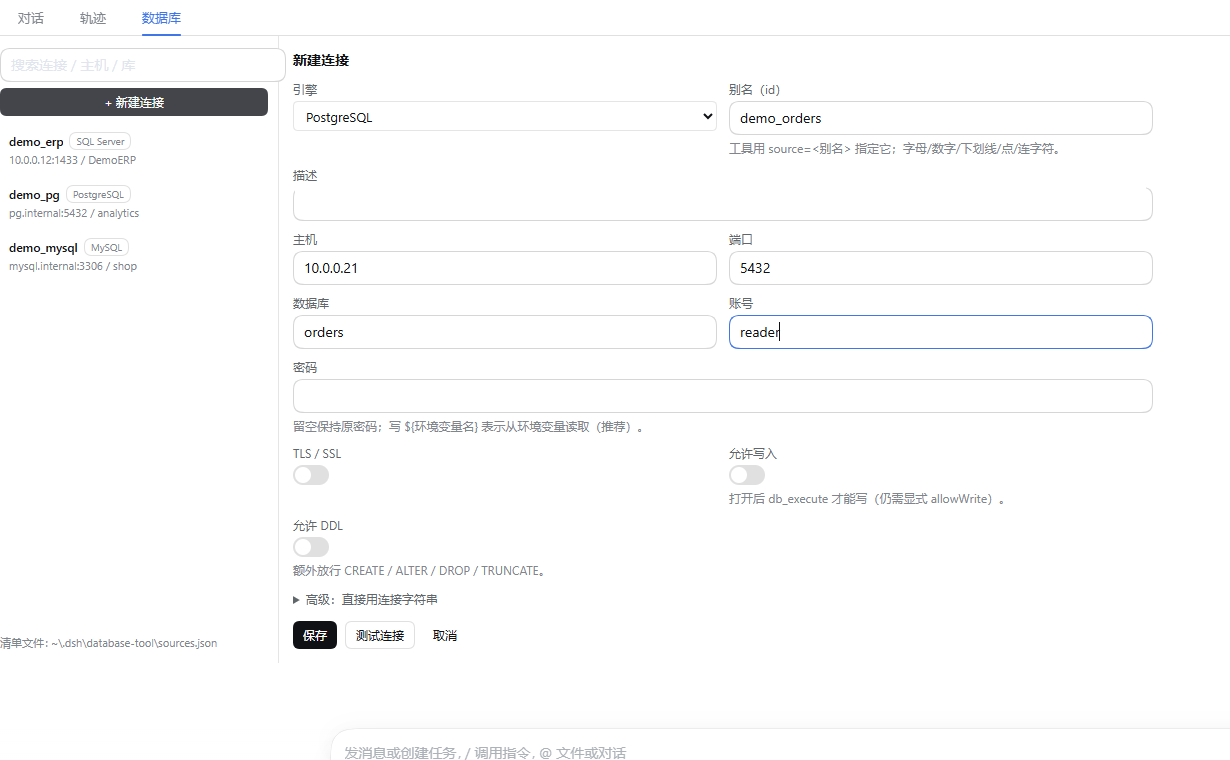
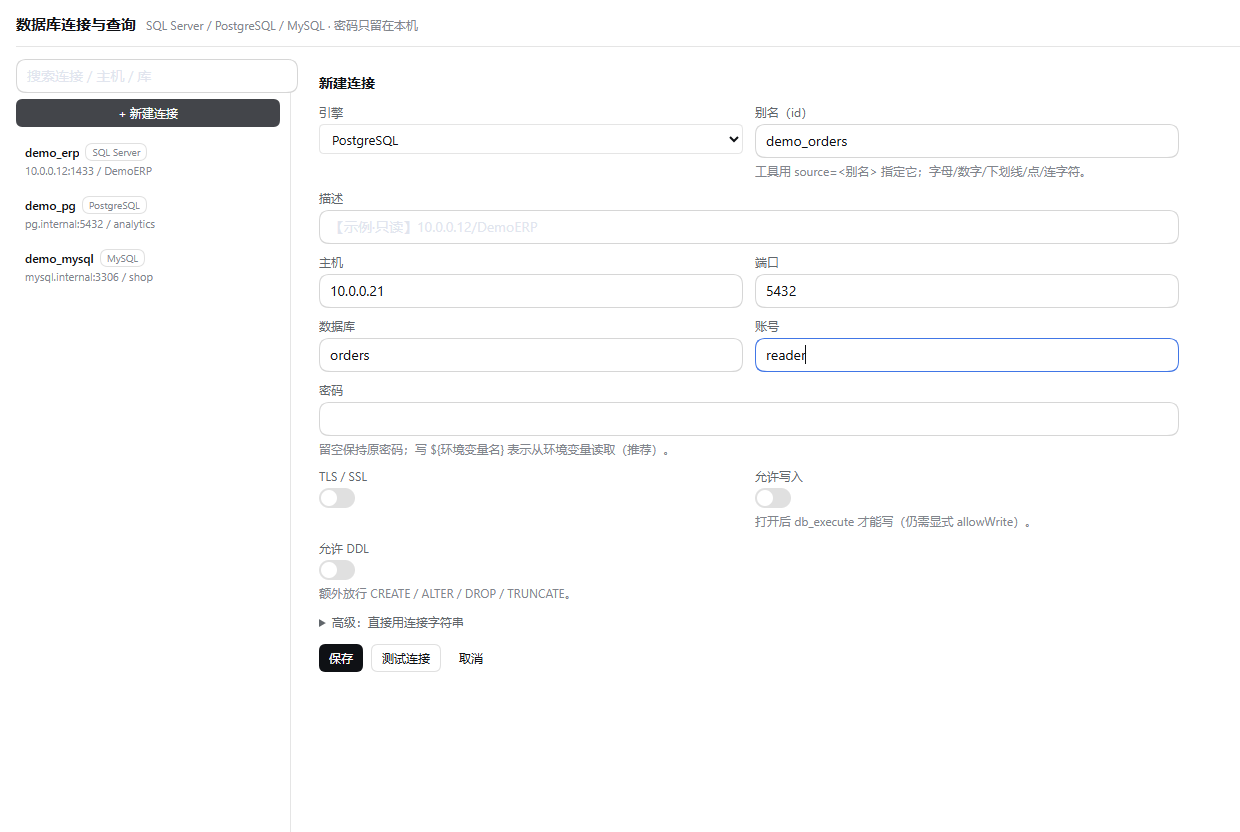
feat: 「数据库」从会话标签页改到左侧栏全局面板（0.2.1）
- 注册 main + sidebar.panellist（id 一致），删掉 conversation.view 注册
- 面板加页面标题行，去掉为会话输入框预留的底部留白；表单/控制台/列表布局沿用
- 设置页文案与 README / USAGE 截图同步改成侧栏入口

diff --git a/client/client.js b/client/client.js
@@ -2,7 +2,7 @@
  * dsh-tool-database 浏览器半区。
  *
  * 两个落点：
- *   1. 会话顶部标签页「数据库」（conversation.view）：左连接列表 + 右查询控制台 / 连接表单；
+ *   1. 左侧栏「数据库」面板（main + sidebar.panellist）：左连接列表 + 右查询控制台 / 连接表单；
  *   2. 设置页「数据库」节（settings.section）：控制台默认行数与写策略。
  *
  * 形态说明：DSH 客户端插件必须是单文件、且以 window.__ModuleLoader__.load({ id, factory })
@@ -32,7 +32,7 @@ window.__ModuleLoader__.load({
     const NS = 'dsh-tool-database'
     /** 设置页标签页 id。 */
     const SECTION_ID = 'database-sources'
-    /** 会话标签页 id。 */
+    /** 侧栏面板 id（main key + sidebar.panellist id 必须一致）。 */
     const VIEW_ID = 'database'
 
     const zh = {
@@ -46,6 +46,7 @@ window.__ModuleLoader__.load({
       empty: '还没有连接，点「新建连接」开始。',
       pick: '从左侧选一个连接，或新建一个。',
       engineHint: '支持 SQL Server / PostgreSQL / MySQL。连接与密码只留在本机宿主进程里，模型看到的是源句柄与查询结果，永远拿不到密码。',
+      engineHintShort: 'SQL Server / PostgreSQL / MySQL · 密码只留在本机',
       configDriven: '当前连接来自插件 config.sources，本页改动不生效；先清空 config.sources。',
       engine: '引擎',
       idLabel: '别名（id）',
@@ -94,7 +95,7 @@ window.__ModuleLoader__.load({
       consoleSaved: '已保存。',
       consoleTitle: '控制台设置',
       file: '清单文件',
-      settingsIntro: '连接管理在会话顶部的「数据库」标签页里；这里只放控制台的全局参数。',
+      settingsIntro: '连接管理在左侧栏的「数据库」面板里；这里只放控制台的全局参数。',
       wrote: '已执行',
       affected: '影响行数',
       result: '结果',
@@ -111,6 +112,7 @@ window.__ModuleLoader__.load({
       empty: 'No connection yet — start with “New connection”.',
       pick: 'Pick a connection on the left, or create one.',
       engineHint: 'Supports SQL Server / PostgreSQL / MySQL. Connections and passwords stay in the local host process; the model only sees source handles and query results.',
+      engineHintShort: 'SQL Server / PostgreSQL / MySQL · passwords stay local',
       configDriven: 'Connections come from the plugin config.sources; edits here have no effect until that is emptied.',
       engine: 'Engine',
       idLabel: 'Alias (id)',
@@ -159,7 +161,7 @@ window.__ModuleLoader__.load({
       consoleSaved: 'Saved.',
       consoleTitle: 'Console settings',
       file: 'List file',
-      settingsIntro: 'Connections live in the “Database” tab at the top of a session; this page only holds console-wide defaults.',
+      settingsIntro: 'Connections live in the “Database” panel in the left sidebar; this page only holds console-wide defaults.',
       wrote: 'Executed',
       affected: 'Rows affected',
       result: 'Result',
@@ -187,8 +189,12 @@ window.__ModuleLoader__.load({
       styled = true
       const style = document.createElement('style')
       style.textContent = [
-        '.dbx-root{display:flex;height:100%;min-height:0;box-sizing:border-box;padding-bottom:128px;font-size:13px;color:var(--dsw-alias-label-primary,inherit)}',
-        '.dbx-side{width:268px;min-width:220px;display:flex;flex-direction:column;gap:8px;padding:12px 10px;border-right:1px solid var(--dsw-alias-border-l2,color-mix(in srgb,currentColor 14%,transparent));min-height:0}',
+        '.dbx-root{display:flex;height:100%;min-height:0;box-sizing:border-box;padding:14px 16px;gap:14px;font-size:13px;color:var(--dsw-alias-label-primary,inherit)}',
+        '.dbx-page{display:flex;flex-direction:column;height:100%;min-height:0;box-sizing:border-box;padding:14px 16px;gap:12px;font-size:13px;color:var(--dsw-alias-label-primary,inherit)}',
+        '.dbx-page-head{display:flex;align-items:baseline;gap:10px;flex:none}',
+        '.dbx-page-title{font-size:15px;font-weight:600;margin:0}',
+        '.dbx-cols{display:flex;flex:1;min-height:0;gap:14px;border-top:1px solid var(--dsw-alias-border-l2,color-mix(in srgb,currentColor 14%,transparent));padding-top:12px}',
+        '.dbx-side{width:264px;min-width:220px;display:flex;flex-direction:column;gap:8px;padding:0 10px 0 0;border-right:1px solid var(--dsw-alias-border-l2,color-mix(in srgb,currentColor 14%,transparent));min-height:0}',
         '.dbx-main{flex:1;min-width:0;display:flex;flex-direction:column;min-height:0}',
         '.dbx-side-head{display:flex;flex-direction:column;gap:6px}',
         '.dbx-search{width:100%}',
@@ -813,7 +819,16 @@ window.__ModuleLoader__.load({
 
       return h(
         'div',
-        { className: 'dbx-root' },
+        { className: 'dbx-page' },
+        h(
+          'div',
+          { className: 'dbx-page-head' },
+          h('h2', { className: 'dbx-page-title' }, t('title')),
+          h('span', { className: 'dbx-muted' }, t('engineHintShort')),
+        ),
+        h(
+          'div',
+          { className: 'dbx-cols' },
         h(
           'aside',
           { className: 'dbx-side' },
@@ -900,12 +915,25 @@ window.__ModuleLoader__.load({
                   ),
                 ),
         ),
+        ),
       )
     }
 
     function View(props) {
       const t = props.t
       return h('div', { style: { height: '100%', minHeight: 0 } }, h(Panel, { t: t }))
+    }
+
+    /** 侧边栏「数据库」入口图标（侧边栏负责按钮、文字与选中态）。 */
+    function PanelIcon(props) {
+      const size = Number(props && props.size) || 16
+      return h(
+        'svg',
+        { width: size, height: size, viewBox: '0 0 16 16', fill: 'none', 'aria-hidden': 'true' },
+        h('ellipse', { cx: 8, cy: 3.6, rx: 5.2, ry: 2.2, stroke: 'currentColor', strokeWidth: 1.2 }),
+        h('path', { d: 'M2.8 3.6v4.2c0 1.2 2.3 2.2 5.2 2.2s5.2-1 5.2-2.2V3.6', stroke: 'currentColor', strokeWidth: 1.2 }),
+        h('path', { d: 'M2.8 7.8v4.2c0 1.2 2.3 2.2 5.2 2.2s5.2-1 5.2-2.2V7.8', stroke: 'currentColor', strokeWidth: 1.2 }),
+      )
     }
 
     function SettingsSection(props) {
@@ -956,20 +984,30 @@ window.__ModuleLoader__.load({
 
       ctx.effect(
         () =>
-          ctx.slots.inject('conversation.view', () =>
+          ctx.slots.inject('main', () =>
+            ctx.slots.register(
+              { name: 'main', key: VIEW_ID, locale: NS },
+              View,
+            ),
+          ),
+        'dsh-tool-database: main panel',
+      )
+
+      ctx.effect(
+        () =>
+          ctx.slots.inject('sidebar.panellist', () =>
             ctx.slots.register(
               {
-                name: 'conversation.view',
+                name: 'sidebar.panellist',
                 id: VIEW_ID,
                 order: 20,
                 label: () => t('view'),
                 locale: NS,
-                children: {},
               },
-              View,
+              PanelIcon,
             ),
           ),
-        'dsh-tool-database: session view',
+        'dsh-tool-database: sidebar entry',
       )
 
       ctx.effect(

diff --git a/src/index.ts b/src/index.ts
@@ -8,7 +8,7 @@
  *   1. 插件 config.sources：cordis.patch.yml 里的数组；
  *   2. $DSH_HOME/database-tool/sources.json（首次启动自动从老插件 mssql-tool/sources.json 迁移一份）。
  *
- * 图形化维护：会话顶部「数据库」标签页与设置页都经 connection.fetch 打 RPC，
+ * 图形化维护：左侧栏「数据库」面板与设置页都经 connection.fetch 打 RPC，
  * 宿主侧增删改同一份 sources.json（见 settings-rpc.ts）；没有 connection 的部署
  * 自动跳过界面，工具不受影响。
  *
@@ -332,7 +332,7 @@ export function apply(ctx: Context, config: Config = {}): void {
     }),
   )
 
-  // 会话标签页 / 设置页：浏览器侧经 connection 打 RPC，宿主侧读写同一份 sources.json。
+  // 侧栏面板 / 设置页：浏览器侧经 connection 打 RPC，宿主侧读写同一份 sources.json。
   applySettingsRpc(ctx, {
     filePath: () => filePath,
     configDriven: () => Array.isArray(config.sources) && config.sources.length > 0,

diff --git a/src/settings-rpc.ts b/src/settings-rpc.ts
@@ -1,5 +1,5 @@
 /**
- * 浏览器侧（会话标签页 / 设置页）到宿主的 RPC。
+ * 浏览器侧（侧栏面板 / 设置页）到宿主的 RPC。
  *
  * 端点：
  *   sources/list     列出源 + 引擎元数据 + 控制台配置

diff --git a/README.md b/README.md
@@ -1,7 +1,7 @@
 # dsh-tool-database
 
 DeepSeek Harness 的**数据库原生工具插件**：一套工具同时连 **SQL Server / PostgreSQL / MySQL**，
-模型直接读（可选写）你配置的库，**不经过 MCP、不 spawn 外部进程**；浏览器里还有「数据库」标签页，
+模型直接读（可选写）你配置的库，**不经过 MCP、不 spawn 外部进程**；左侧栏还有「数据库」面板，
 左边管连接、右边直接跑 SQL 看结果。
 
 > 前身是 `dsh-tool-mssql`（只能连 SQL Server，所以名字里带 mssql）。0.2.0 起改成多引擎，
@@ -47,21 +47,20 @@ DeepSeek Harness 的**数据库原生工具插件**：一套工具同时连 **SQ
 
 参数占位按引擎走：SQL Server 用 `@p0, @p1 …`；PostgreSQL 用 `$1, $2 …`；MySQL 用 `?`，值都放 `params` 数组。
 
-## 会话标签页「数据库」（0.2.0 新增）
+## 左侧栏「数据库」面板（0.2.1 起在左侧栏，0.2.0 曾在会话标签页）
 
-会话顶部标签行里多一个 **数据库**（挨着「对话 / 轨迹」），点开就是：
+左侧栏全局面板区多一个 **数据库**（挨着「插件 / 自动化任务」），点开就是：
 
 - **左栏**：连接列表（搜索、引擎徽标、可写标记），点一条即在右侧打开；
 - **右栏 · 查询**：SQL 输入框 + 「执行」（Ctrl / Cmd + Enter），结果表格显示列名、行数、耗时，超限标「已截断」；
 - **右栏 · 连接表单**：新建 / 编辑连接用表单填（引擎、主机、端口、库、账号、密码、TLS、可写、允许 DDL），
   「测试连接」当场试连；连接字符串收在「高级」里，不想填字段时再展开。
 
-![会话顶部「数据库」标签页：左连接列表 + 右查询区](docs/images/session-tab.png)
+![左侧栏入口](docs/images/sidebar-entry.png)
 
-新建 / 编辑连接走表单（下图），引擎下拉切换时端口自动跟着变（1433 / 5432 / 3306）；
-「测试连接」当场试连；连接字符串收在「高级」里，不想填字段时再展开——不用再手写 DSN。
+![「数据库」面板：左连接列表 + 右查询区](docs/images/database-panel.png)
 
-![新建连接表单](docs/images/connection-form.png)
+![新建连接表单：引擎下拉切换时端口自动跟着变](docs/images/connection-form.png)
 
 设置页里只留「数据库连接」一节：控制台的**写策略**与默认行数。
 
@@ -95,7 +94,7 @@ dsh plugin --profile web add dsh-tool-database@0.2.0
    用 v10 会报 “node_modules was installed with a different major version of pnpm”，
    直接 `cd ~/.dsh/profiles/desktop && npx --yes pnpm@11.28.5 add dsh-tool-database@0.2.0` 最稳。
 
-装完**重启 DSH**：6 个工具、会话标签页、设置页标签都要重启后才出现（`sources.json` 的改动不用重启）。
+装完**重启 DSH**：6 个工具、侧栏面板、设置页标签都要重启后才出现（`sources.json` 的改动不用重启）。
 
 ### 从 dsh-tool-mssql 升级
 
@@ -200,7 +199,7 @@ dsh plugin --profile web add "link:../.local-links/dsh-tool-database"
 ```
 
 文件按 mtime 热加载：**改完不用重启**，下一次工具调用即生效。插件启动时若清单文件不存在也不报错，只是没有可用源。
-日常维护直接用会话里的「数据库」标签页，不用手写 JSON。
+日常维护直接用左侧栏的「数据库」面板，不用手写 JSON。
 
 ### 字段
 
@@ -226,7 +225,7 @@ dsh plugin --profile web add "link:../.local-links/dsh-tool-database"
 
 ## 控制台写策略
 
-会话「数据库」标签页里跑 SQL 时，写语句受两层控制：
+侧栏「数据库」面板里跑 SQL 时，写语句受两层控制：
 
 1. **控制台写策略**（设置 → 数据库连接，或 `$DSH_HOME/database-tool/config.json` 的 `writeMode`）：
    - `source`（默认）：跟随数据源的 `writable` / `allowDdl`；
@@ -286,8 +285,8 @@ npm run check   # typecheck + vitest + tsc 构建
 - `src/dsn.ts` —— 连接字符串 ⇄ 源配置（三种 scheme + ADO 写法 + 掩码）；
 - `src/settings-store.ts` —— `sources.json` / `config.json` 的原子读写、增删改、老清单迁移；
 - `src/index.ts` —— 插件入口，注册 6 个工具；
-- `src/settings-rpc.ts` —— 标签页 / 设置页的宿主侧 RPC（`sources/*` + `query/run` + `console/save`）；
-- `client/client.js` —— 浏览器侧单文件客户端（会话标签页 + 设置页节，无构建步骤）；
+- `src/settings-rpc.ts` —— 面板 / 设置页的宿主侧 RPC（`sources/*` + `query/run` + `console/save`）；
+- `client/client.js` —— 浏览器侧单文件客户端（侧栏面板 + 设置页节，无构建步骤）；
 - `tests/` —— vitest：SQL 守卫、清单校验、连接字符串、控制台配置、迁移。
 
 ## 已知限制

diff --git a/docs/USAGE.md b/docs/USAGE.md
@@ -6,7 +6,7 @@
 ## 1. 五分钟上手
 
 1. 安装并重启 DSH（见 README「安装」）；
-2. 打开任意会话，点顶部标签行的 **数据库**；
+2. 点左侧栏的 **数据库**；
 3. 点 **+ 新建连接**，选引擎（SQL Server / PostgreSQL / MySQL），填主机、端口、库、账号、密码；
 4. 点 **测试连接** → 看到版本号说明通了 → **保存**；
 5. 模型侧用 `db_sources` 就能看到这个源，用 `source: "<别名>"` 调用其它工具。
@@ -18,7 +18,7 @@
 
 | 位置 | 能做的事 |
 | --- | --- |
-| 会话顶部 **数据库** 标签 | 连接列表（搜索 / 引擎徽标 / 可写标记）、查询控制台（Ctrl / Cmd + Enter 执行）、结果表格（行数 / 耗时 / 截断提示）、新建与编辑连接、测试连接、删除 |
+| 左侧栏 **数据库** 面板 | 连接列表（搜索 / 引擎徽标 / 可写标记）、查询控制台（Ctrl / Cmd + Enter 执行）、结果表格（行数 / 耗时 / 截断提示）、新建与编辑连接、测试连接、删除 |
 | 设置 → **数据库连接** | 控制台写策略（跟随数据源 / 一律只读 / 始终允许写）、默认行数 |
 
 查询控制台的写语句受两层限制：设置里的写策略 + 数据源自己的 `writable` / `allowDdl`。
@@ -102,7 +102,7 @@ dsh plugin --profile web add dsh-tool-database
 
 | 现象 | 原因 | 处理 |
 | --- | --- | --- |
-| 标签页里没连接 | 清单文件不存在或为空 | 用界面新建一条，或检查 `sources.json` 的 JSON 合法性 |
+| 面板里没连接 | 清单文件不存在或为空 | 用界面新建一条，或检查 `sources.json` 的 JSON 合法性 |
 | `引用的环境变量 X 未设置或为空` | DSH 进程读不到该变量 | 设系统环境变量后重启 DSH，或先用明文 `password` 过渡 |
 | 测试连接报 `Login failed` / `password authentication failed` | 账号或密码错、或只允许特定来源 | 核对账号权限与来源 IP；SQL Server 确认混合验证已开 |
 | `self signed certificate` | 服务端证书自签 | 打开该源的 TLS / SSL，或 SQL Server 加 `trustServerCertificate: true` |
